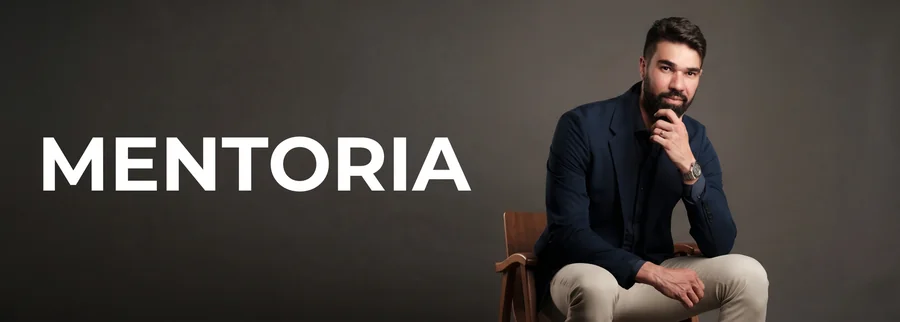
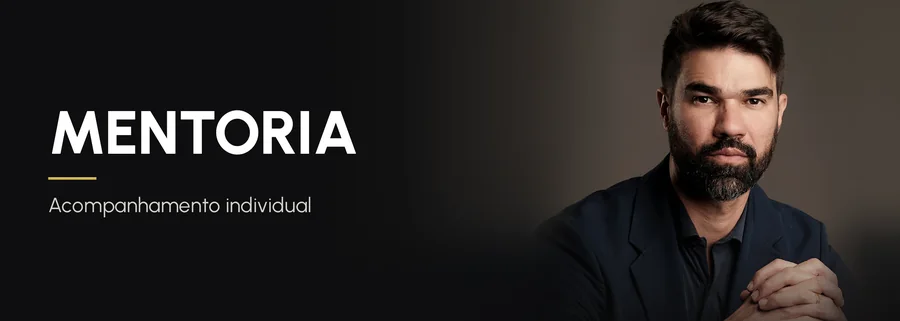
Vitrine da home num padrao unico: artes novas com fotos do Drive e borda dourada
As 7 artes tinham fundo, fonte e corte diferentes. Agora todas usam fundo
grafite, foto do Gustavo a direita com o mesmo tratamento, titulo em
Urbanist e o dourado da pagina de Palestras. O Homens de Honra traz data e
local em destaque. A borda branca dos cards virou um fio dourado.
A versao anterior esta na tag backup-vitrine-2026-11-13.

diff --git a/index.html b/index.html
@@ -78,19 +78,19 @@
      WebP em 1800 e 900px (o PNG original continua na pasta); o aspect-ratio fixa a
      proporcao do PNG, porque a versao de 900px arredonda a altura em meio pixel. -->
 <main class="cards">
[2 lines of base64/hex data omitted]
     <img onload="this.classList.add('ok')" src="assets/banners/03-poder-da-acao.webp"
          srcset="assets/banners/03-poder-da-acao-900.webp 900w, assets/banners/03-poder-da-acao.webp 1800w"
          sizes="(max-width: 767px) calc(100vw - 42px), 895px" fetchpriority="high" decoding="async" width="1800" height="643" style="aspect-ratio: 1800 / 643"
          alt="Treinamento O Poder da Acao">
   </a>
[2 lines of base64/hex data omitted]
     <img onload="this.classList.add('ok')" src="assets/banners/06-contrate-palestras.webp"
          srcset="assets/banners/06-contrate-palestras-900.webp 900w, assets/banners/06-contrate-palestras.webp 1800w"
          sizes="(max-width: 767px) calc(100vw - 42px), 895px" loading="lazy" decoding="async" width="1800" height="643" style="aspect-ratio: 1800 / 643"
          alt="Contrate palestras">
   </a>
[2 lines of base64/hex data omitted]
     <img onload="this.classList.add('ok')" src="assets/banners/08-treinamento-empresas.webp"
          srcset="assets/banners/08-treinamento-empresas-900.webp 900w, assets/banners/08-treinamento-empresas.webp 1800w"
          sizes="(max-width: 767px) calc(100vw - 42px), 895px" loading="lazy" decoding="async" width="1800" height="643" style="aspect-ratio: 1800 / 643"
@@ -99,26 +99,26 @@
   <!-- 07/11/2026: o CIS de Goiania (15-17/10) ja passou. Pedido do Danilo: o card
        abre o WhatsApp do COMERCIAL com "tenho interesse no Metodo CIS". O Homens
        de Honra passou a ir para a LP propria (/homensdehonra/, 12/12/2026). -->
[2 lines of base64/hex data omitted]
     <img onload="this.classList.add('ok')" src="assets/banners/01-metodo-cis.webp"
          srcset="assets/banners/01-metodo-cis-900.webp 900w, assets/banners/01-metodo-cis.webp 1800w"
          sizes="(max-width: 767px) calc(100vw - 42px), 895px" loading="lazy" decoding="async" width="1800" height="643" style="aspect-ratio: 1800 / 643"
          alt="Metodo CIS - falar com o comercial no WhatsApp">
   </a>
[2 lines of base64/hex data omitted]
     <img onload="this.classList.add('ok')" src="assets/banners/02-homens-de-honra.webp"
          srcset="assets/banners/02-homens-de-honra-900.webp 900w, assets/banners/02-homens-de-honra.webp 1800w"
          sizes="(max-width: 767px) calc(100vw - 42px), 895px" loading="lazy" decoding="async" width="1800" height="644" style="aspect-ratio: 1800 / 644"
-         alt="Homens de Honra com Gustavo Sampaio - 12 de dezembro, Auditorio Family">
+         alt="Homens de Honra com Gustavo Sampaio - 12 de dezembro, 8h30, Family Church, Goiania">
   </a>
[2 lines of base64/hex data omitted]
     <img onload="this.classList.add('ok')" src="assets/banners/07-mentoria.webp"
          srcset="assets/banners/07-mentoria-900.webp 900w, assets/banners/07-mentoria.webp 1800w"
          sizes="(max-width: 767px) calc(100vw - 42px), 895px" loading="lazy" decoding="async" width="1800" height="643" style="aspect-ratio: 1800 / 643"
          alt="Mentoria">
   </a>
   <!-- um banner so para os dois contatos: abre a escolha logo abaixo -->
[2 lines of base64/hex data omitted]
     <img onload="this.classList.add('ok')" src="assets/banners/09-contato.webp"
          srcset="assets/banners/09-contato-900.webp 900w, assets/banners/09-contato.webp 1800w"
          sizes="(max-width: 767px) calc(100vw - 42px), 895px" loading="lazy" decoding="async" width="1800" height="643" style="aspect-ratio: 1800 / 643"

diff --git a/styles.css b/styles.css
@@ -187,7 +187,7 @@ img { display: block; max-width: 100%; height: auto; }
 
 .card {
   display: block;
-  border: 2px solid #fff;
+  border: 1px solid rgba(235, 203, 108, .45);
   border-radius: var(--card-radius);
   overflow: hidden;
   transition: transform .25s ease;
@@ -331,7 +331,7 @@ body:has(.escolha:target:not(.escolha--fechada)) { overflow: hidden; }
   align-items: center;
   text-align: center;
   padding: 34px 24px 30px;
-  border: 2px solid #fff;
+  border: 1px solid rgba(235, 203, 108, .45);
   border-radius: var(--card-radius);
   background: #111;
 }
